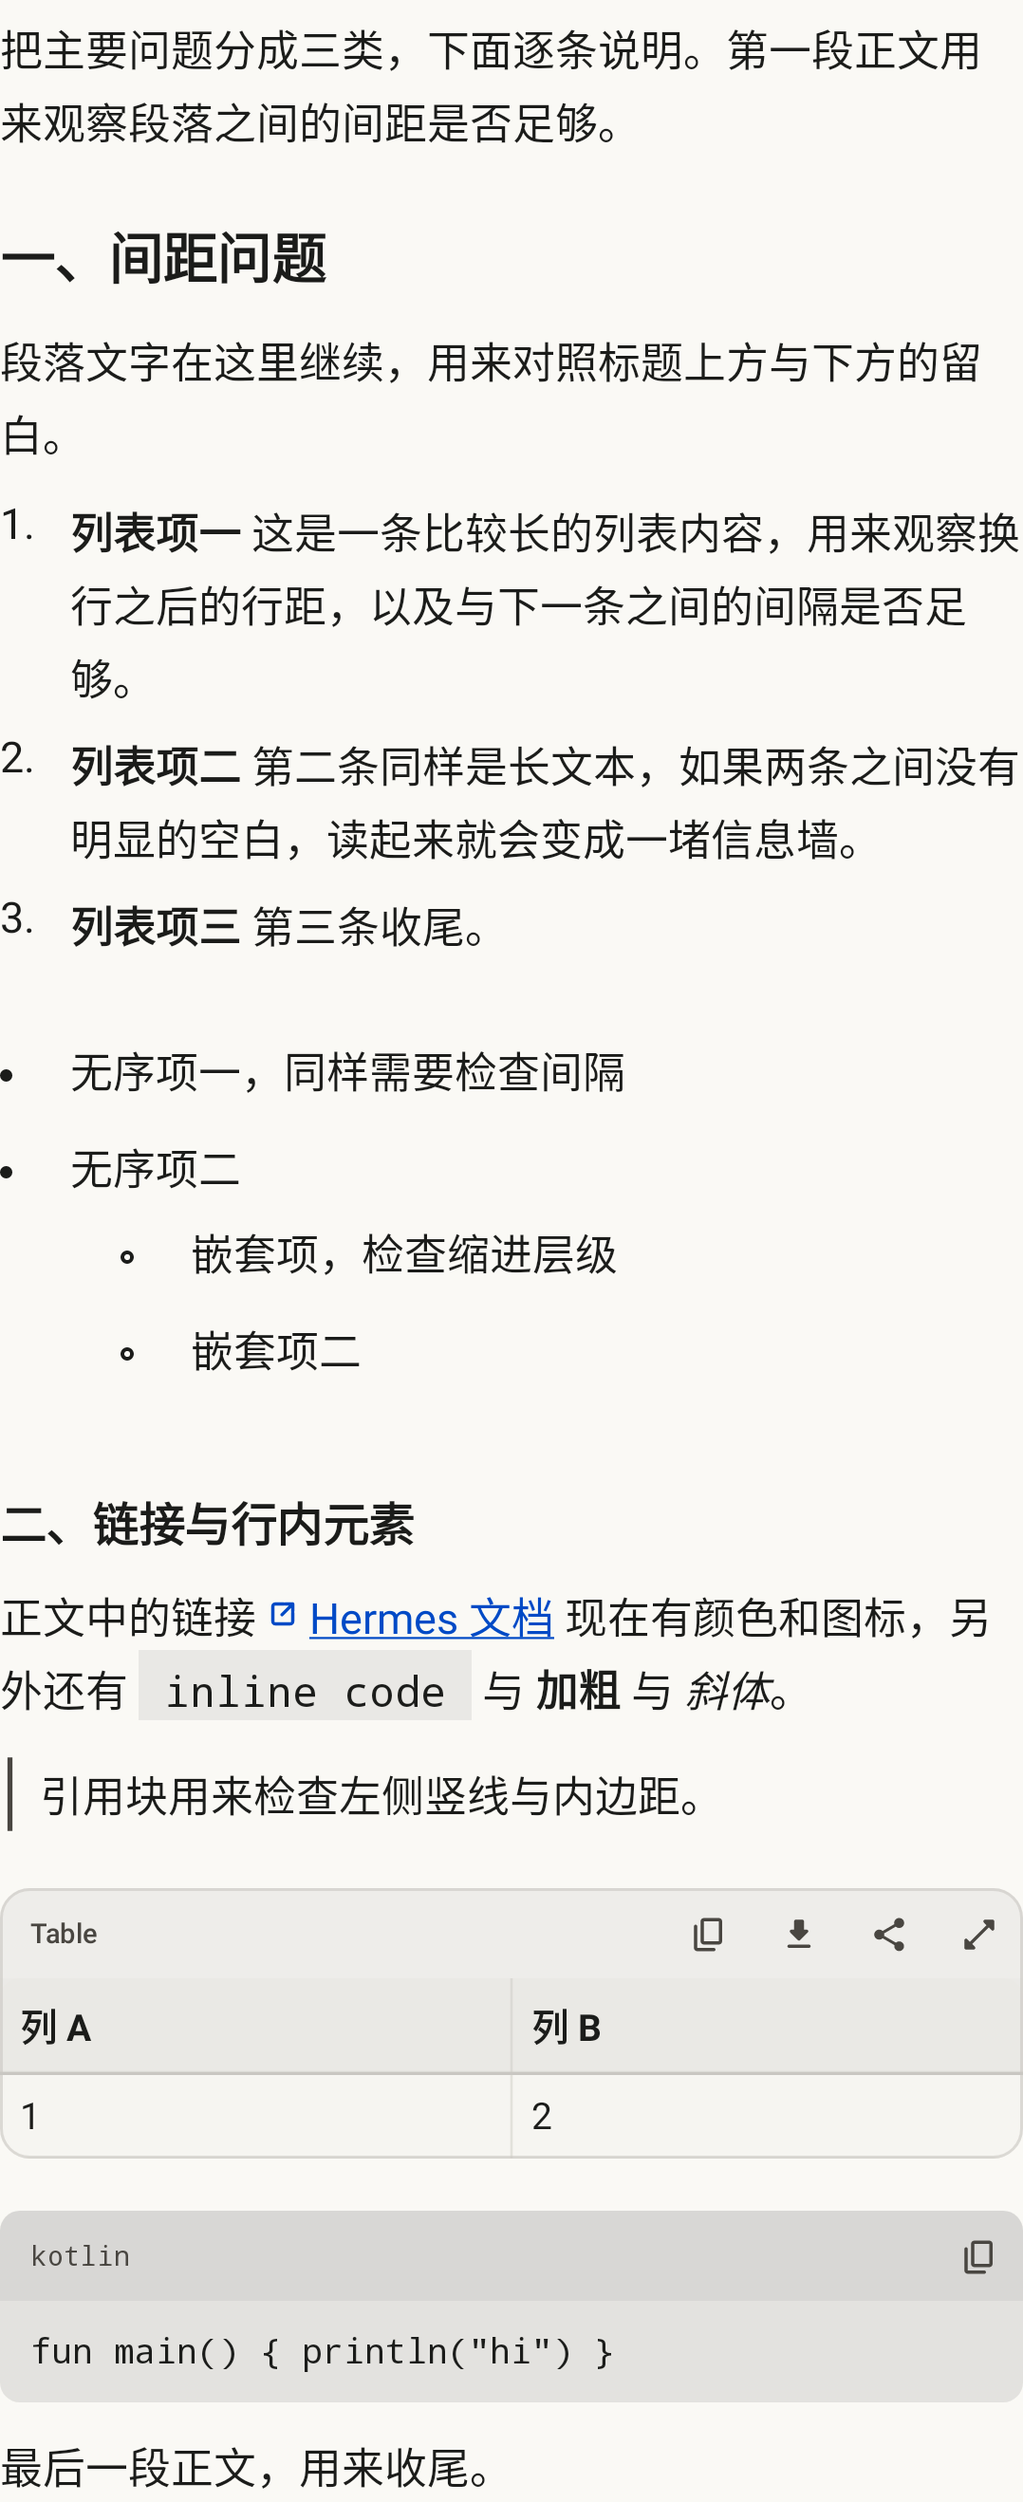
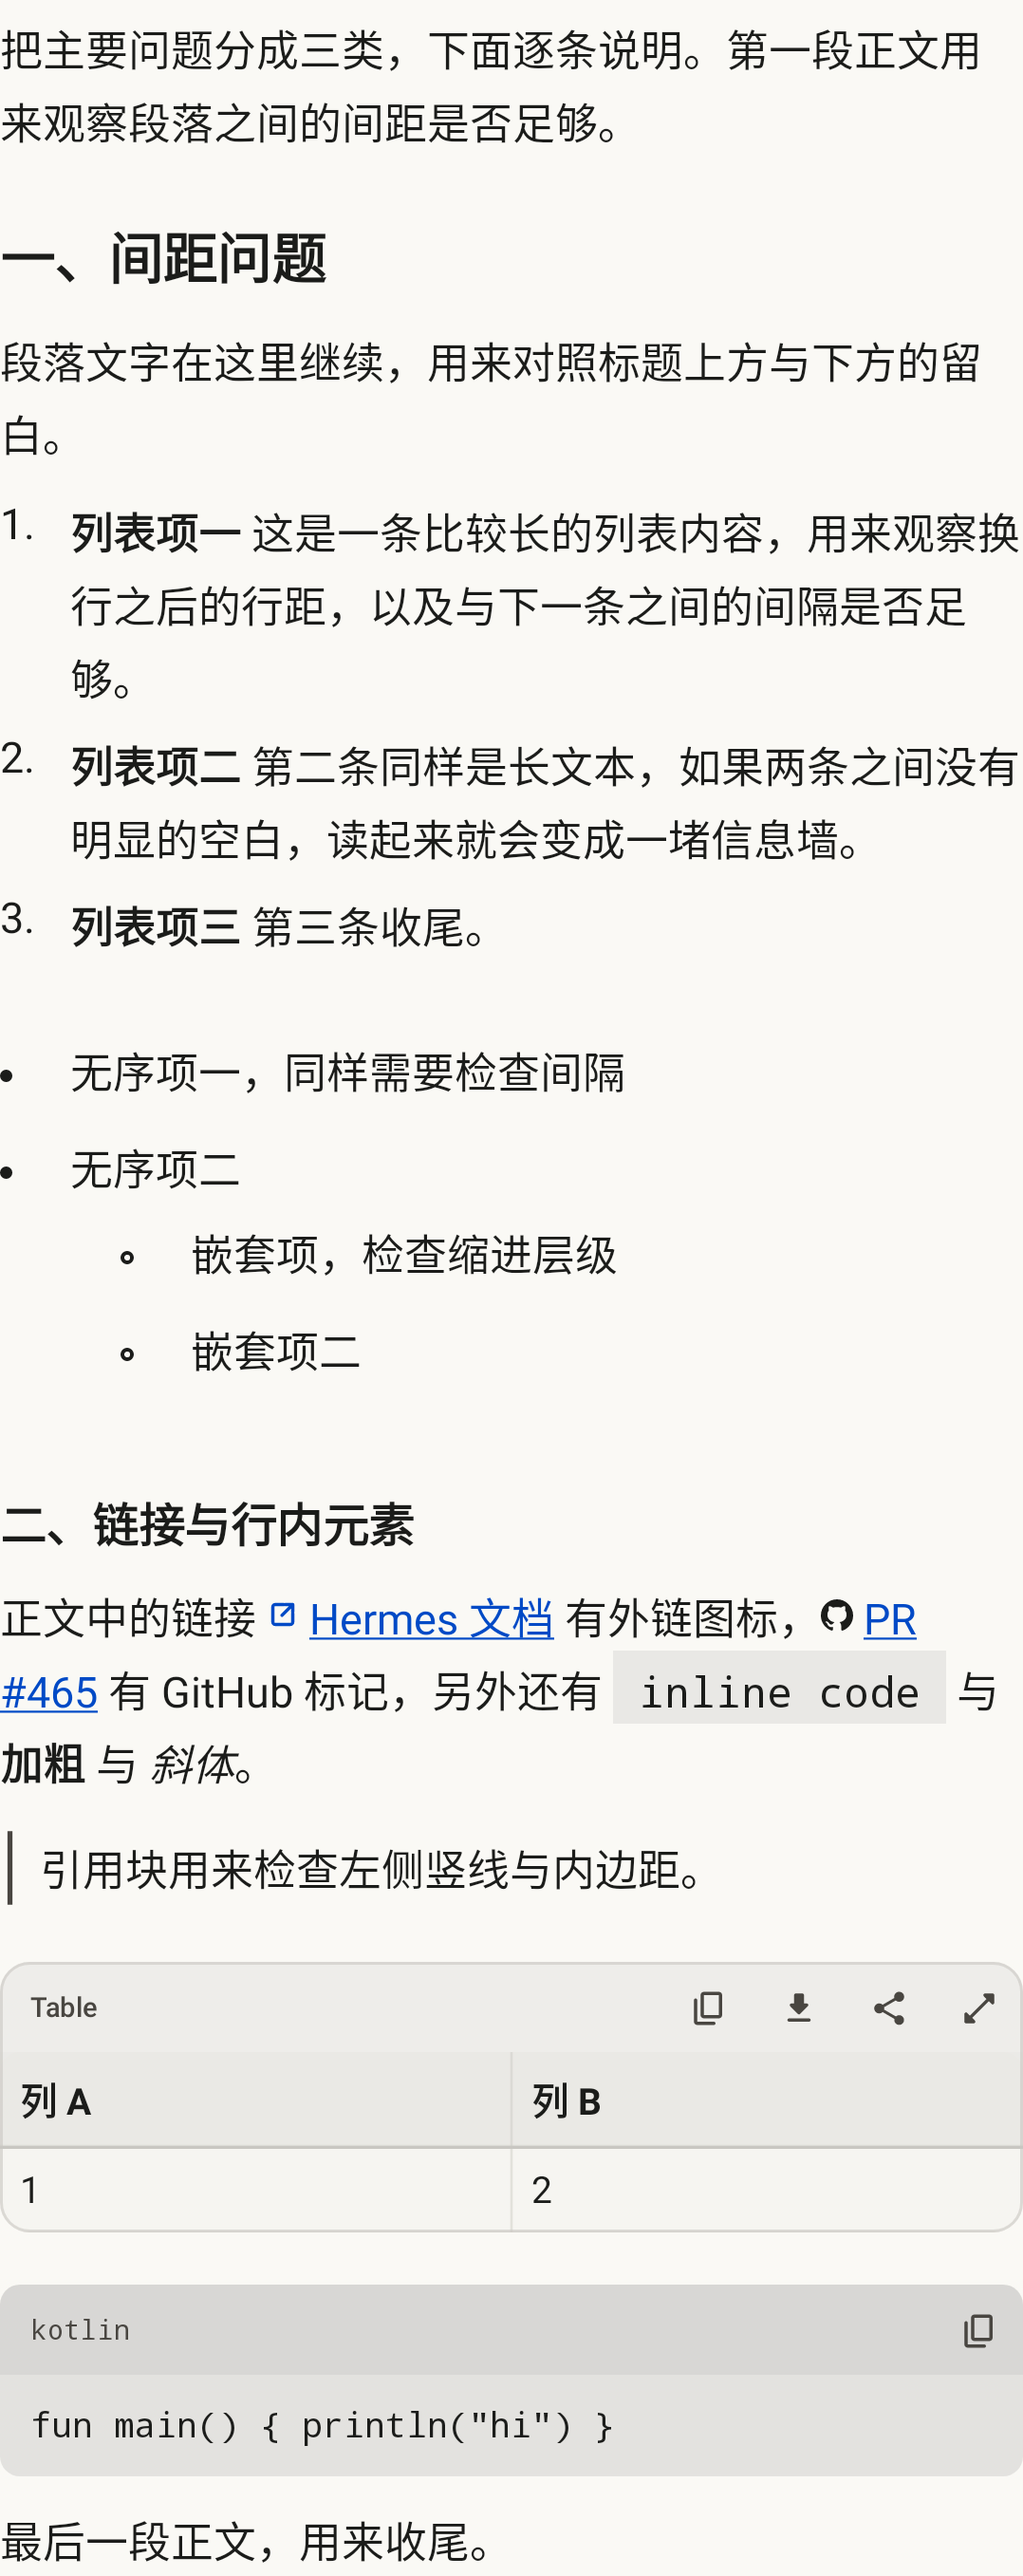
fix(android): HG-154 show GitHub mark on GitHub links
Use the official monochrome Invertocat for links whose destination host is github.com. Keep the generic external-link glyph for other hosts, update the design contract, and record light, dark, and large-font screenshots.

Tests: MarkdownLinkIconTest; MarkdownTypographyScreenshotTest record and verify; :app:testDebugUnitTest :app:assembleDebug; git diff --check.

Verification: L1 JVM and Roborazzi passed. L2 unavailable because no physical device is attached. L3 not run because this visual change has no targetSdk-gated behavior.

HG-157 was investigated in the same dispatch; its supplied diagnostics have no crash stack, and no physical device was available to retrieve one. No speculative crash fix is included.

diff --git a/android/app/src/main/java/com/hermes/client/ui/chat/HermesMarkdown.kt b/android/app/src/main/java/com/hermes/client/ui/chat/HermesMarkdown.kt
@@ -9,6 +9,7 @@ import androidx.compose.runtime.Composable
 import androidx.compose.runtime.CompositionLocalProvider
 import androidx.compose.runtime.remember
 import androidx.compose.ui.Modifier
+import androidx.compose.ui.res.painterResource
 import androidx.compose.ui.platform.LocalDensity
 import androidx.compose.ui.platform.LocalUriHandler
 import androidx.compose.ui.text.Placeholder
@@ -164,7 +165,8 @@ internal fun hermesLinkStyles(): TextLinkStyles {
 @Composable
 private fun rememberLinkIconContent(): MarkdownInlineContent {
     val linkColor = MaterialTheme.colorScheme.primary
-    return remember(linkColor) {
+    val githubColor = MaterialTheme.colorScheme.onSurface
+    return remember(linkColor, githubColor) {
         DefaultMarkdownInlineContent(
             mapOf(
                 MARKDOWN_LINK_ICON_TAG to InlineTextContent(
@@ -175,6 +177,16 @@ private fun rememberLinkIconContent(): MarkdownInlineContent {
                         contentDescription = null,
                         modifier = Modifier.size(with(LocalDensity.current) { 13.sp.toDp() }),
                         tint = linkColor,
+                    )
+                },
+                MARKDOWN_GITHUB_ICON_TAG to InlineTextContent(
+                    Placeholder(17.sp, 17.sp, PlaceholderVerticalAlign.TextCenter),
+                ) {
+                    Icon(
+                        painter = painterResource(com.hermes.client.R.drawable.ic_github_invertocat),
+                        contentDescription = null,
+                        modifier = Modifier.size(with(LocalDensity.current) { 13.sp.toDp() }),
+                        tint = githubColor,
                     )
                 },
             ),
@@ -192,8 +204,13 @@ private fun rememberHermesAnnotator(highlightSearch: Boolean, searchRangeOffset:
     val searchAnnotator = rememberSearchAnnotator(searchRangeOffset)
     return remember(searchAnnotator, highlightSearch) {
         markdownAnnotator(config = if (highlightSearch) searchAnnotator.config else markdownAnnotatorConfig()) { content, child ->
-            if (shouldPrefixLinkIcon(child)) {
-                appendInlineContent(MARKDOWN_LINK_ICON_TAG, "\uFFFC")
+            val iconTag = when (linkIconKind(child, content)) {
+                MarkdownLinkIconKind.EXTERNAL -> MARKDOWN_LINK_ICON_TAG
+                MarkdownLinkIconKind.GITHUB -> MARKDOWN_GITHUB_ICON_TAG
+                null -> null
+            }
+            if (iconTag != null) {
+                appendInlineContent(iconTag, "\uFFFC")
                 // WORD JOINER: without it the line breaker treats the glyph as its own word and
                 // happily leaves it stranded at the end of the previous line.
                 append('\u2060')
@@ -212,6 +229,7 @@ internal fun hermesTableTextStyle(exportScale: Boolean = false): TextStyle =
     )
 
 internal const val MARKDOWN_LINK_ICON_TAG = "hermes-link-icon"
+internal const val MARKDOWN_GITHUB_ICON_TAG = "hermes-github-icon"
 
 /** Table geometry in the conversation, and in the component gallery that mirrors it. */
 internal val CHAT_TABLE_CELL_WIDTH = 110.dp

diff --git a/android/app/src/test/java/com/hermes/client/ui/chat/MarkdownLinkIconTest.kt b/android/app/src/test/java/com/hermes/client/ui/chat/MarkdownLinkIconTest.kt
@@ -7,11 +7,21 @@ import org.junit.Assert.assertEquals
 import org.junit.Test
 
 /**
- * The external-link glyph is injected per AST node, so the interesting behaviour is "which nodes
- * count as a link". Roborazzi goldens only record here, they never fail a build, so this is the
- * test that actually holds the rule.
+ * Link glyphs are injected per AST node. These tests hold the one-icon-per-link rule and select
+ * the GitHub mark only for a GitHub destination; screenshots cover the rendered shape and spacing.
  */
 class MarkdownLinkIconTest {
+    private fun iconKinds(markdown: String): List<MarkdownLinkIconKind> {
+        val tree = MarkdownParser(GFMFlavourDescriptor()).buildMarkdownTreeFromString(markdown)
+        val kinds = mutableListOf<MarkdownLinkIconKind>()
+        fun walk(node: ASTNode) {
+            linkIconKind(node, markdown)?.let(kinds::add)
+            node.children.forEach(::walk)
+        }
+        walk(tree)
+        return kinds
+    }
+
     private fun iconCount(markdown: String): Int {
         val tree = MarkdownParser(GFMFlavourDescriptor()).buildMarkdownTreeFromString(markdown)
         var count = 0
@@ -55,5 +65,33 @@ class MarkdownLinkIconTest {
     /** A fenced code block that happens to contain a URL must stay untouched. */
     @Test fun codeFenceUrlGetsNone() {
         assertEquals(0, iconCount("```\ncurl https://example.com\n```"))
+    }
+
+    @Test fun githubPullRequestUsesGitHubMark() {
+        assertEquals(
+            listOf(MarkdownLinkIconKind.GITHUB),
+            iconKinds("见 [PR #465](https://github.com/example/project/pull/465)。"),
+        )
+    }
+
+    @Test fun bareGitHubUrlUsesGitHubMark() {
+        assertEquals(
+            listOf(MarkdownLinkIconKind.GITHUB),
+            iconKinds("见 https://github.com/example/project/pull/465。"),
+        )
+    }
+
+    @Test fun unrelatedAndLookalikeHostsKeepExternalLinkIcon() {
+        assertEquals(
+            listOf(MarkdownLinkIconKind.EXTERNAL, MarkdownLinkIconKind.EXTERNAL),
+            iconKinds("[文档](https://example.com) 与 [伪装](https://github.com.evil.example/pull/465)"),
+        )
+    }
+
+    @Test fun mixedLinksGetOneIconEach() {
+        assertEquals(
+            listOf(MarkdownLinkIconKind.GITHUB, MarkdownLinkIconKind.EXTERNAL),
+            iconKinds("[PR](https://github.com/example/project/pull/465) 与 [说明](https://example.com)"),
+        )
     }
 }

diff --git a/android/app/src/main/java/com/hermes/client/ui/chat/ChatComponents.kt b/android/app/src/main/java/com/hermes/client/ui/chat/ChatComponents.kt
@@ -2216,6 +2216,27 @@ internal fun shouldPrefixLinkIcon(node: ASTNode): Boolean {
     return node.parent?.type !in NESTED_AUTOLINK_PARENTS
 }
 
+internal enum class MarkdownLinkIconKind { EXTERNAL, GITHUB }
+
+/** The GitHub mark identifies a verified GitHub destination, never text that merely resembles one. */
+internal fun linkIconKind(node: ASTNode, content: String): MarkdownLinkIconKind? {
+    if (!shouldPrefixLinkIcon(node)) return null
+    val destination = when (node.type) {
+        MarkdownElementTypes.INLINE_LINK -> node.children
+            .firstOrNull { it.type == MarkdownElementTypes.LINK_DESTINATION }
+            ?.let { content.substring(it.startOffset, it.endOffset) }
+        MarkdownElementTypes.AUTOLINK, GFMTokenTypes.GFM_AUTOLINK ->
+            content.substring(node.startOffset, node.endOffset)
+        else -> null // Reference links need definition resolution; keep their existing glyph.
+    }?.trim()?.removeSurrounding("<", ">")
+    val uri = destination?.let { runCatching { java.net.URI(it) }.getOrNull() }
+    val scheme = uri?.scheme?.lowercase(java.util.Locale.ROOT)
+    return if (
+        (scheme == "http" || scheme == "https") &&
+        uri?.host?.equals("github.com", ignoreCase = true) == true
+    ) MarkdownLinkIconKind.GITHUB else MarkdownLinkIconKind.EXTERNAL
+}
+
 /** Parents whose GFM_AUTOLINK child is a component of an enclosing link, not a link itself. */
 private val NESTED_AUTOLINK_PARENTS = setOf(
     MarkdownElementTypes.LINK_TEXT,

diff --git a/android/app/src/test/java/com/hermes/client/ui/screenshot/MarkdownTypographyScreenshotTest.kt b/android/app/src/test/java/com/hermes/client/ui/screenshot/MarkdownTypographyScreenshotTest.kt
@@ -40,7 +40,7 @@ class MarkdownTypographyScreenshotTest {
 
 ### 二、链接与行内元素
 
-正文中的链接 [Hermes 文档](https://example.com/docs) 现在有颜色和图标，另外还有 `inline code` 与 **加粗** 与 *斜体*。
+正文中的链接 [Hermes 文档](https://example.com/docs) 有外链图标，[PR #465](https://github.com/example/project/pull/465) 有 GitHub 标记，另外还有 `inline code` 与 **加粗** 与 *斜体*。
 
 > 引用块用来检查左侧竖线与内边距。
 
